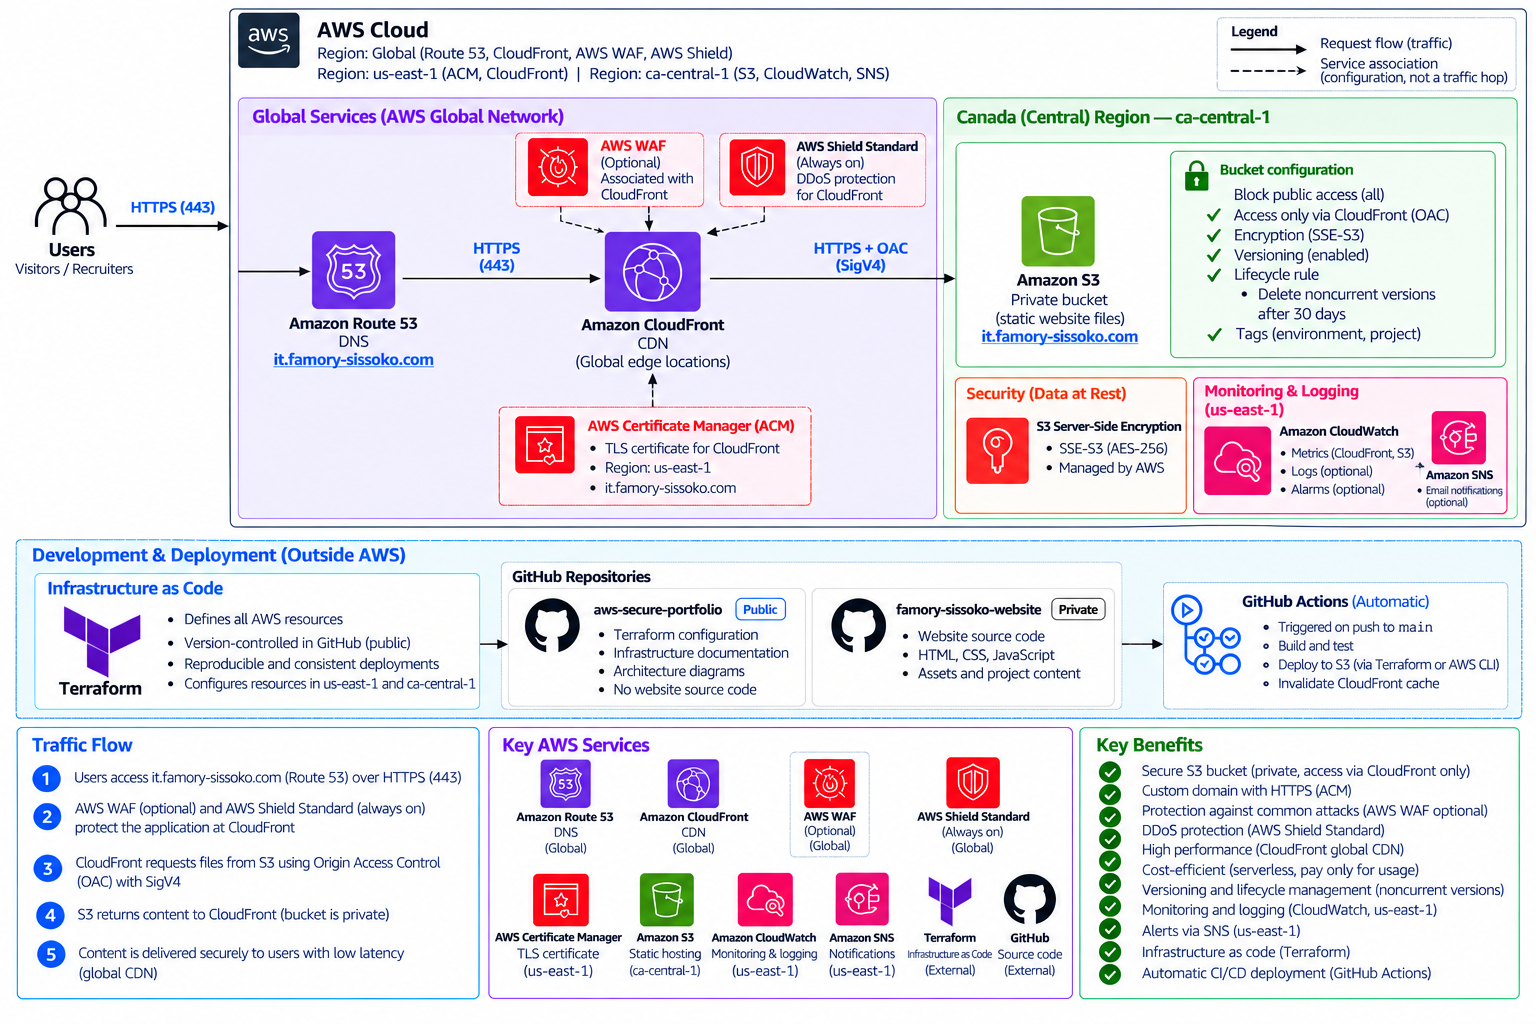
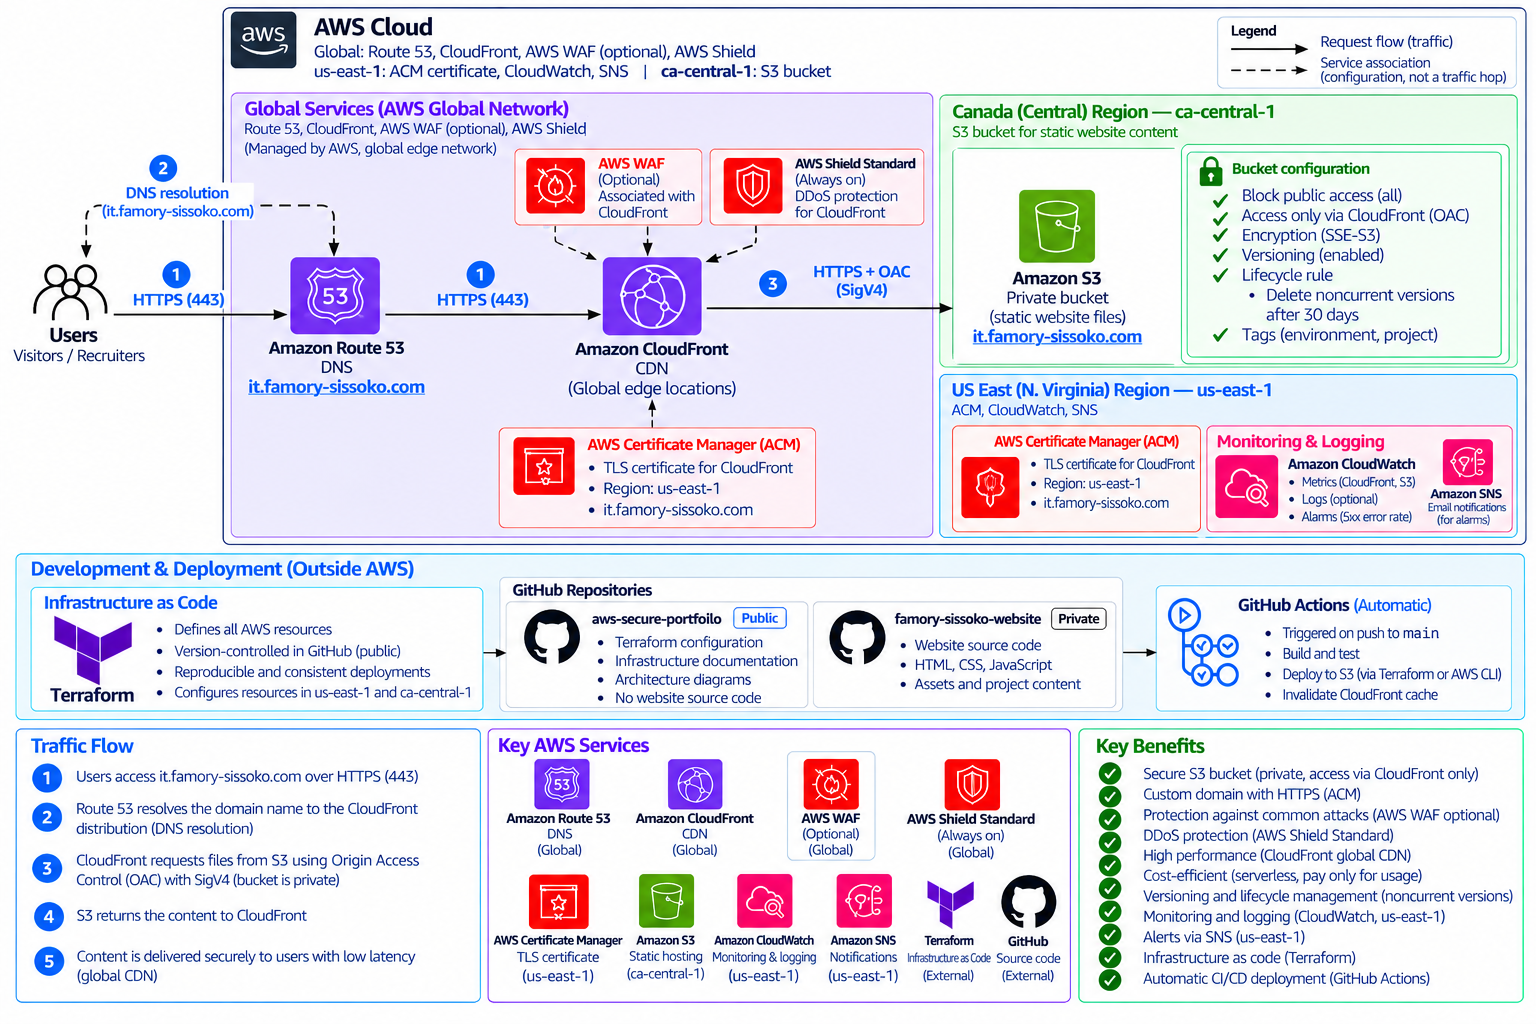
docs: refine portfolio documentation and architecture diagram

Changed region(s): [[0.0, 0.0, 1.0, 1.0]]

diff --git a/README.md b/README.md
@@ -74,4 +74,6 @@ The Terraform configuration manages the S3 bucket and its security settings, Clo
 
 ## Architecture Documentation
 
-Detailed architecture diagrams, security decisions, and implementation notes are available in the `docs/` directory.
+- [Architecture Overview](docs/architecture.md) — Detailed infrastructure design and component interactions.
+- [Architecture Decision Records](docs/decisions.md) — Technical decisions, alternatives, and trade-offs.
+- [Security Architecture](docs/security.md) — Security controls, access management, encryption, and monitoring.
